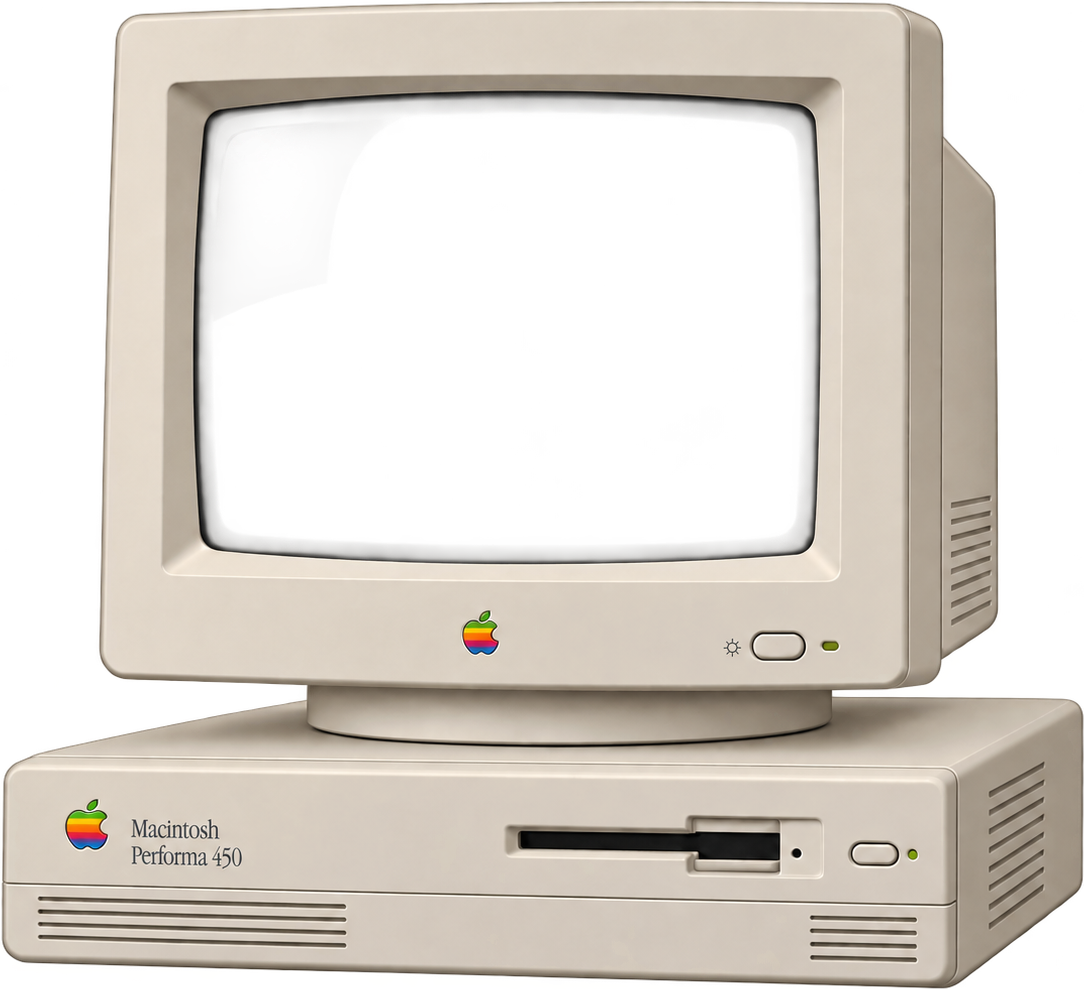
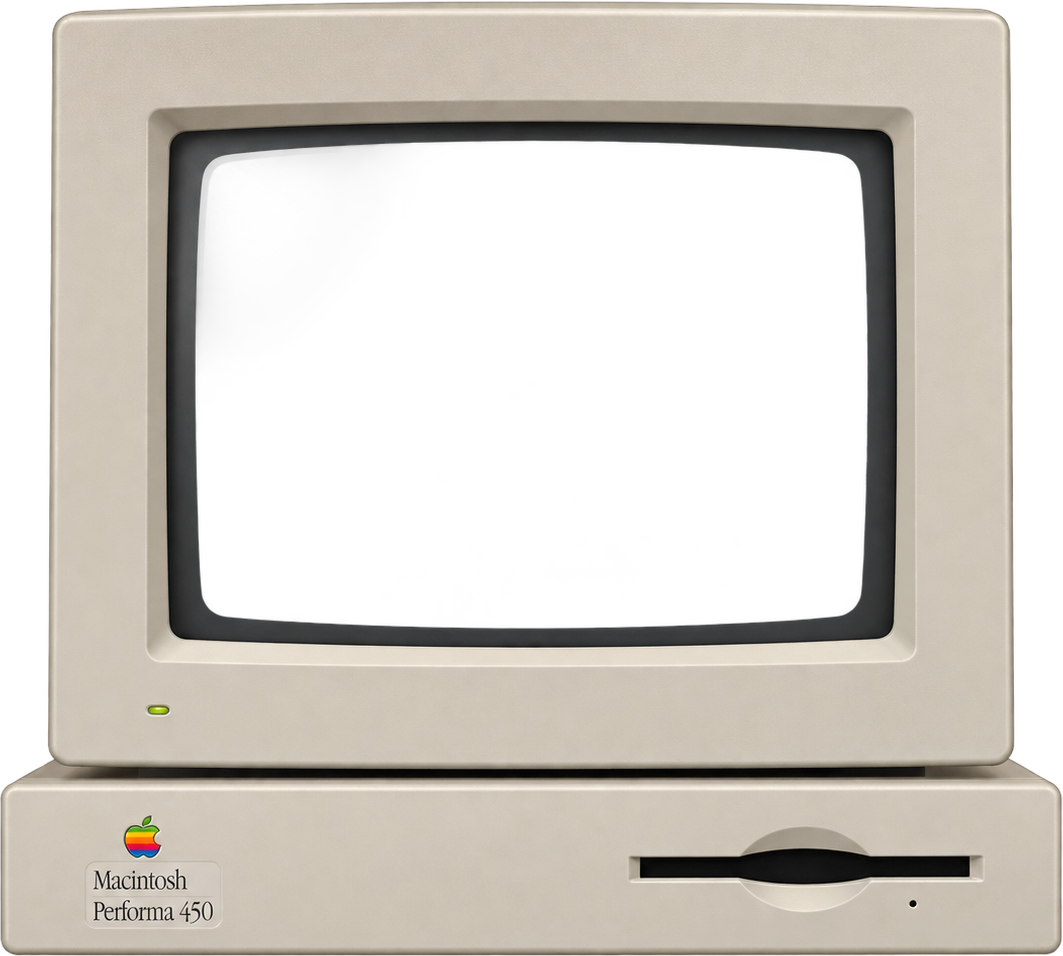
Swap in the new Performa 450 render
The replacement art is 1063x956 cropped to alpha bounds, with the
glass aperture re-measured at (195,141) 674x486 and the 1.6 tank
letterboxed inside at 674x421.

Generated with [Devin](https://devin.ai)

diff --git a/web/machines.ts b/web/machines.ts
@@ -67,11 +67,11 @@ const plus: Machine = {
 const performa: Machine = {
   id: "performa", name: "Macintosh Performa 450",
   blurb: "A pizza-box desktop under an Apple RGB monitor.",
-  vbW: 1084, vbH: 989,
-  hole: { x: 193, y: 92, w: 628, h: 472, r: 0 },
-  sx: 201, sy: 137, sw: 612, sh: 383,
+  vbW: 1063, vbH: 956,
+  hole: { x: 195, y: 141, w: 674, h: 486, r: 0 },
+  sx: 195, sy: 173, sw: 674, sh: 421,
   image: "assets/performa-450.png",
-  shape: [{ x: 0, y: 0, w: 1084, h: 989, r: 0 }],
+  shape: [{ x: 0, y: 0, w: 1063, h: 956, r: 0 }],
   svg: "",
 };
 
